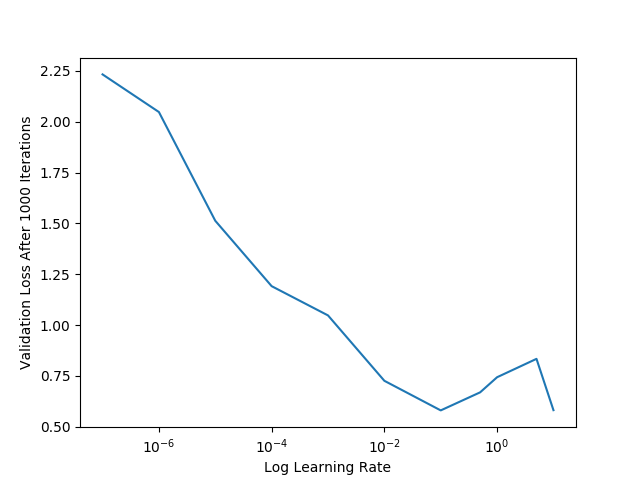
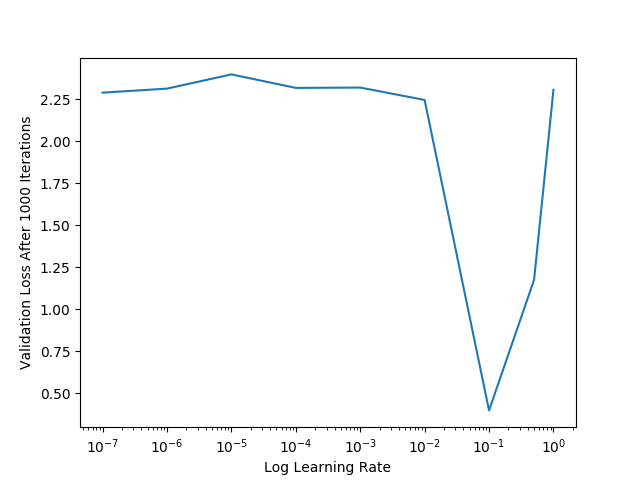
update_hyperparams

diff --git a/runner.py b/runner.py
@@ -6,12 +6,12 @@ import matplotlib.pyplot as plt
 
 g = Graph(36, type='Funnel', flag=5)
 
-sweep_vals = [0.0000001, 0.000001, 0.00001, 0.0001, 0.001, 0.01, 0.1, 0.5, 1, 5, 10]
+sweep_vals = [0.000001, 0.00001, 0.0001, 0.001, 0.01, 0.1, 0.5, 1, 5, 10]
 final_losses = []
 
 for lr in sweep_vals:
     m = Model(id=0, lr=lr)
-    for _ in trange(100):
+    for _ in trange(500):
         x, y = next(iter(g.train_loader))
         m.step(x, y)
         x, y = next(iter(g.eval_loader))
